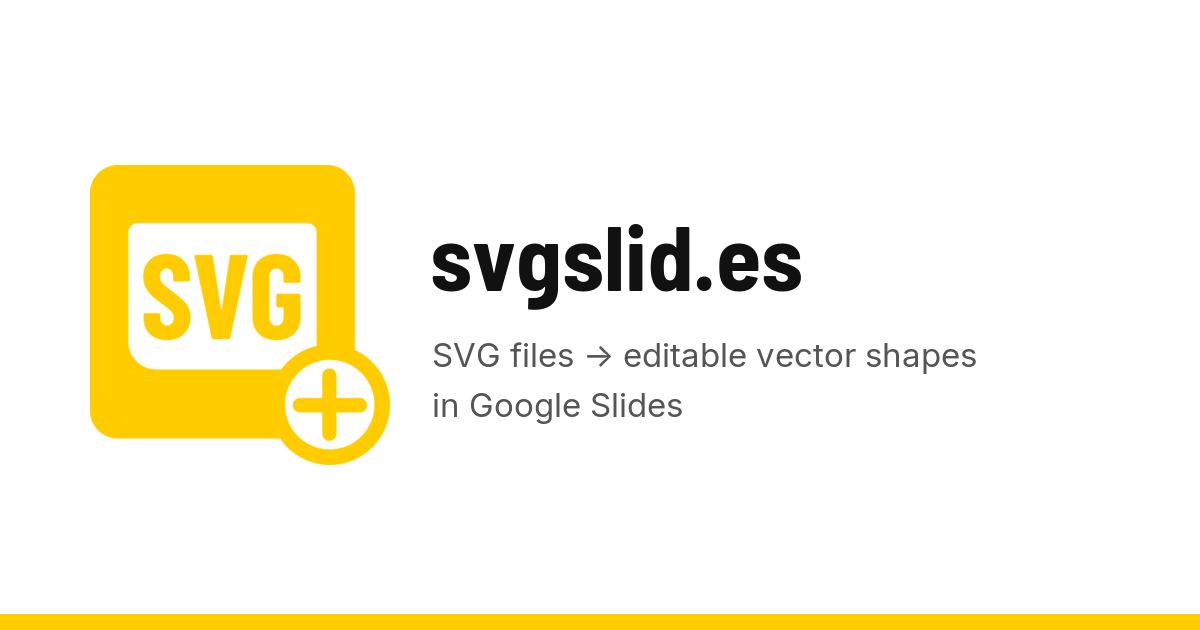
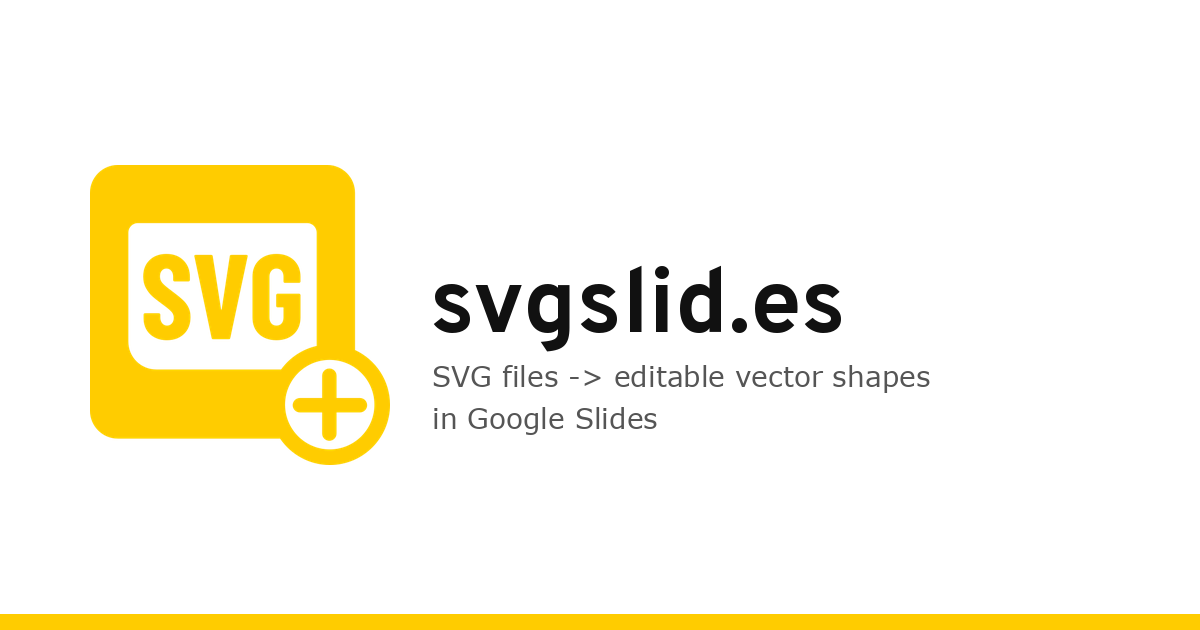
Add /addon forwarder to Workspace Marketplace, refresh OG image typefaces
Mirrors the /chrome page's pattern (real HTML page with its own OG tags,
JS-only redirect) for the now-approved Google Workspace add-on listing.
Regenerated the shared og-image.png with Overpass/Verdana to match the
site's current typography, replacing the old Barlow Semi Condensed/Inter
render.

Changed region(s): [[0.3392, 0.3619, 0.8325, 0.6937]]

diff --git a/cloud/static/addon.html b/cloud/static/addon.html
@@ -1,0 +1,52 @@
+<!DOCTYPE html>
+<html lang="en">
+<head>
+  <meta charset="utf-8">
+  <meta name="viewport" content="width=device-width, initial-scale=1">
+  <title>SVG Slides — Google Workspace Add-on</title>
+  <meta name="description" content="Insert SVG files into Google Slides as editable, native vector shapes, right from the Extensions menu. Free Google Workspace add-on.">
+  <link rel="icon" type="image/png" sizes="32x32" href="/static/favicon-32.png">
+  <meta property="og:title" content="SVG Slides — Google Workspace Add-on">
+  <meta property="og:description" content="Insert SVG files into Google Slides as editable, native vector shapes, right from the Extensions menu. Free Google Workspace add-on.">
+  <meta property="og:image" content="https://svgslid.es/static/og-image.png">
+  <meta property="og:url" content="https://svgslid.es/addon">
+  <meta property="og:type" content="website">
+  <meta name="twitter:card" content="summary_large_image">
+  <meta name="twitter:title" content="SVG Slides — Google Workspace Add-on">
+  <meta name="twitter:description" content="Insert SVG files into Google Slides as editable, native vector shapes, right from the Extensions menu. Free Google Workspace add-on.">
+  <meta name="twitter:image" content="https://svgslid.es/static/og-image.png">
+  <link rel="preconnect" href="https://fonts.googleapis.com">
+  <link rel="preconnect" href="https://fonts.gstatic.com" crossorigin>
+  <link href="https://fonts.googleapis.com/css2?family=Overpass:wght@700&display=swap" rel="stylesheet">
+  <style>
+    *, *::before, *::after { box-sizing: border-box; }
+    body {
+      max-width: 480px;
+      margin: 96px auto;
+      padding: 0 20px;
+      font-family: Verdana, Geneva, sans-serif;
+      font-size: 15px;
+      color: #111;
+      text-align: center;
+    }
+    h1 { font-size: 1.425rem; font-family: 'Overpass', sans-serif; font-weight: 700; margin: 0 0 8px; }
+    p { color: #555; margin: 0 0 20px; }
+    a.btn {
+      display: inline-block;
+      background: #111;
+      color: #fff;
+      text-decoration: none;
+      padding: 10px 20px;
+      border-radius: 6px;
+      font-weight: 600;
+      font-size: 0.95rem;
+    }
+  </style>
+  <script>window.location.replace("https://workspace.google.com/marketplace/app/svg_%E2%9E%94_slides/477942279738");</script>
+</head>
+<body>
+  <h1>Redirecting to Google Workspace Marketplace…</h1>
+  <p>If you're not redirected automatically, click below.</p>
+  <a class="btn" href="https://workspace.google.com/marketplace/app/svg_%E2%9E%94_slides/477942279738">Open in Google Workspace Marketplace →</a>
+</body>
+</html>

diff --git a/cloud/main.py b/cloud/main.py
@@ -82,9 +82,15 @@ def chrome_redirect():
     # Serves a real HTML page (with its own OG/Twitter tags) rather than a
     # raw HTTP redirect, so link-preview crawlers read our branded meta tags
     # instead of following straight through to the Chrome Web Store's own
-    # (or absent) preview. The page itself redirects human visitors via
-    # meta-refresh + a JS fallback.
+    # (or absent) preview. Bots don't execute the JS redirect below, so they
+    # never leave this page; human visitors do and get bounced through.
     return FileResponse("static/chrome.html")
+
+
+@app.get("/addon")
+def addon_redirect():
+    # Same pattern as /chrome, pointed at the Google Workspace Marketplace listing.
+    return FileResponse("static/addon.html")
 
 
 @app.post("/cleanup")
